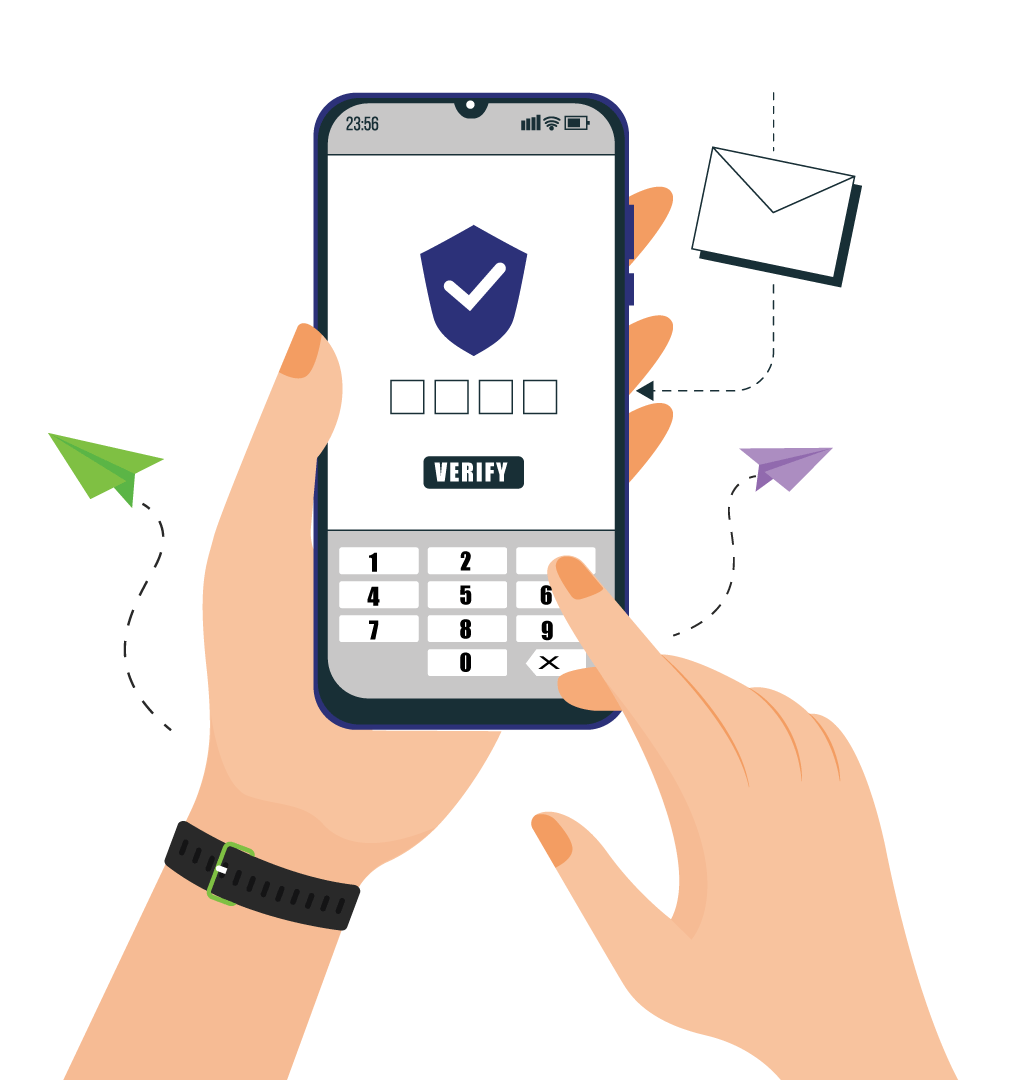
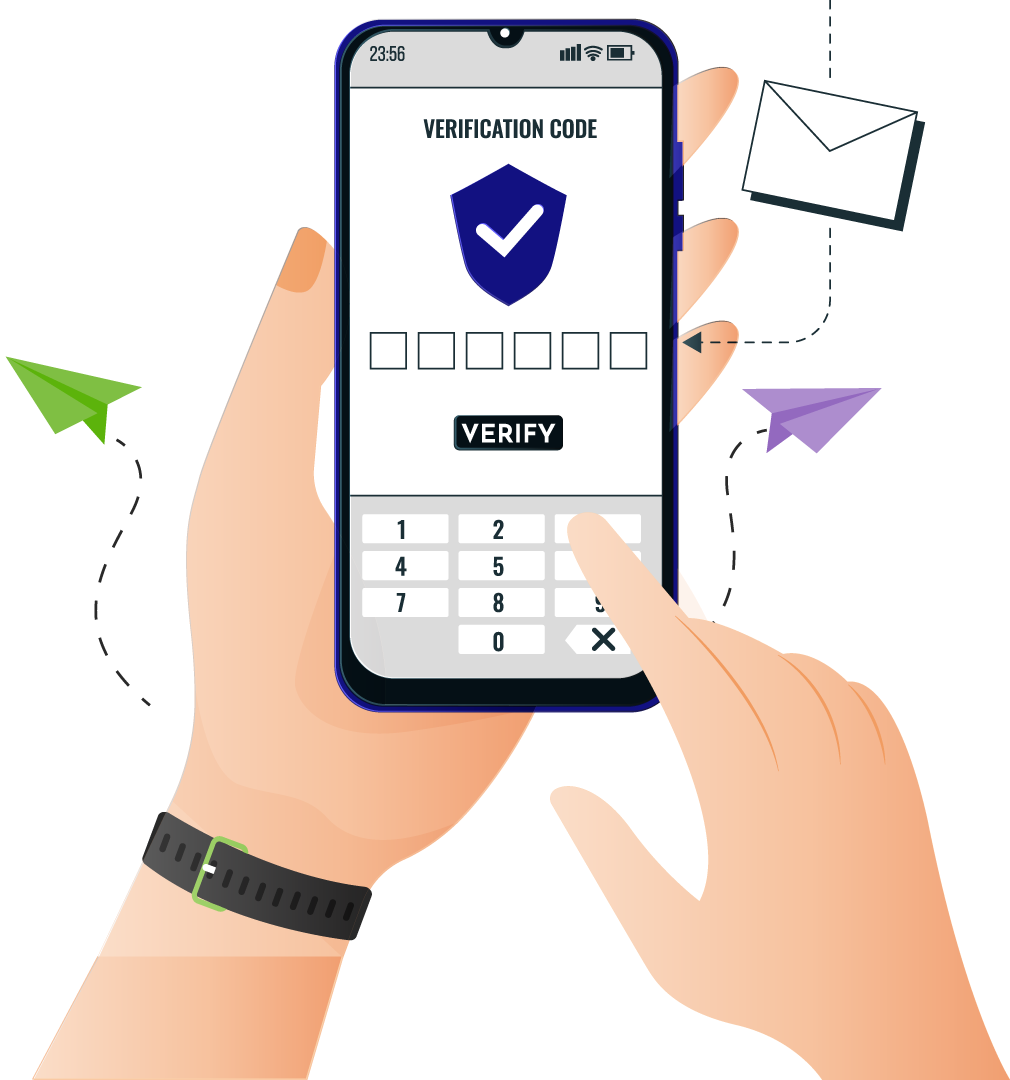
commit

Changed region(s): [[0.0307, 0.0, 1.0, 1.0], [0.0, 0.3361, 0.1535, 0.4889], [0.7059, 0.6722, 0.7366, 0.7028]]

diff --git a/lib/view/authentication/login_screen.dart b/lib/view/authentication/login_screen.dart
@@ -18,41 +18,10 @@ class LoginScreen extends StatefulWidget {
   State<LoginScreen> createState() => _LoginScreenState();
 }
 
-class _LoginScreenState extends State<LoginScreen> with CodeAutoFill {
-  String codeValue = "";
-
-  @override
-  void codeUpdated() {
-    print("Update code $code");
-    setState(() {
-      print("codeUpdated");
-    });
-  }
-
-  @override
-  void initState() {
-    // TODO: implement initState
-    super.initState();
-    listenOtp();
-  }
-
-  void listenOtp() async {
-    await SmsAutoFill().unregisterListener();
-    listenForCode();
-    await SmsAutoFill().listenForCode;
-    print("OTP listen Called");
-  }
-
-  @override
-  void dispose() {
-    SmsAutoFill().unregisterListener();
-    print("unregisterListener");
-    super.dispose();
-  }
-
+class _LoginScreenState extends State<LoginScreen> {
   final box = GetStorage();
 
-  TextEditingController contact = TextEditingController();
+  //TextEditingController contact = TextEditingController();
   TextEditingController phonenumber = TextEditingController();
   AuthClass authClass = AuthClass();
 
@@ -93,21 +62,21 @@ class _LoginScreenState extends State<LoginScreen> with CodeAutoFill {
       padding: const EdgeInsets.all(15),
       child: Column(
         children: [
-          TextField(
-            controller: contact,
-            keyboardType: TextInputType.number,
-            cursorColor: green,
-            decoration: InputDecoration(
-                enabledBorder: OutlineInputBorder(
-                  borderRadius: BorderRadius.circular(5),
-                ),
-                focusedBorder: OutlineInputBorder(
-                  borderRadius: BorderRadius.circular(5),
-                  borderSide: BorderSide(color: green, width: 2),
-                ),
-                hintText: 'Enter Your Name'),
-          ),
-          const SizedBox(height: 10),
+          // TextField(
+          //   controller: contact,
+          //   keyboardType: TextInputType.number,
+          //   cursorColor: green,
+          //   decoration: InputDecoration(
+          //       enabledBorder: OutlineInputBorder(
+          //         borderRadius: BorderRadius.circular(5),
+          //       ),
+          //       focusedBorder: OutlineInputBorder(
+          //         borderRadius: BorderRadius.circular(5),
+          //         borderSide: BorderSide(color: green, width: 2),
+          //       ),
+          //       hintText: 'Enter Your Name'),
+          // ),
+          // const SizedBox(height: 10),
           TextField(
             controller: phonenumber,
             keyboardType: TextInputType.number,
@@ -120,7 +89,8 @@ class _LoginScreenState extends State<LoginScreen> with CodeAutoFill {
                   borderRadius: BorderRadius.circular(5),
                   borderSide: BorderSide(color: green, width: 2),
                 ),
-                hintText: 'Enter Your Phone Number'),
+                hintText: 'Enter Your Phone Number',
+                hintStyle: TextStyle(fontSize: 20)),
           ),
           const SizedBox(height: 10),
           const Divider(thickness: 2),

diff --git a/lib/view/authentication/otp_screen.dart b/lib/view/authentication/otp_screen.dart
@@ -75,11 +75,11 @@ class _VerifyOTPScreenState extends State<VerifyOTPScreen> with CodeAutoFill {
             const SizedBox(height: 30),
             PinFieldAutoFill(
               decoration: BoxLooseDecoration(
-                  gapSpace: 40,
+                  gapSpace: 20,
                   strokeWidth: 2,
                   strokeColorBuilder: FixedColorBuilder(blue)),
               currentCode: codeValue,
-              codeLength: 4,
+              codeLength: 6,
               onCodeChanged: (code) {
                 print("onCodeChanged $code");
                 setState(() {
